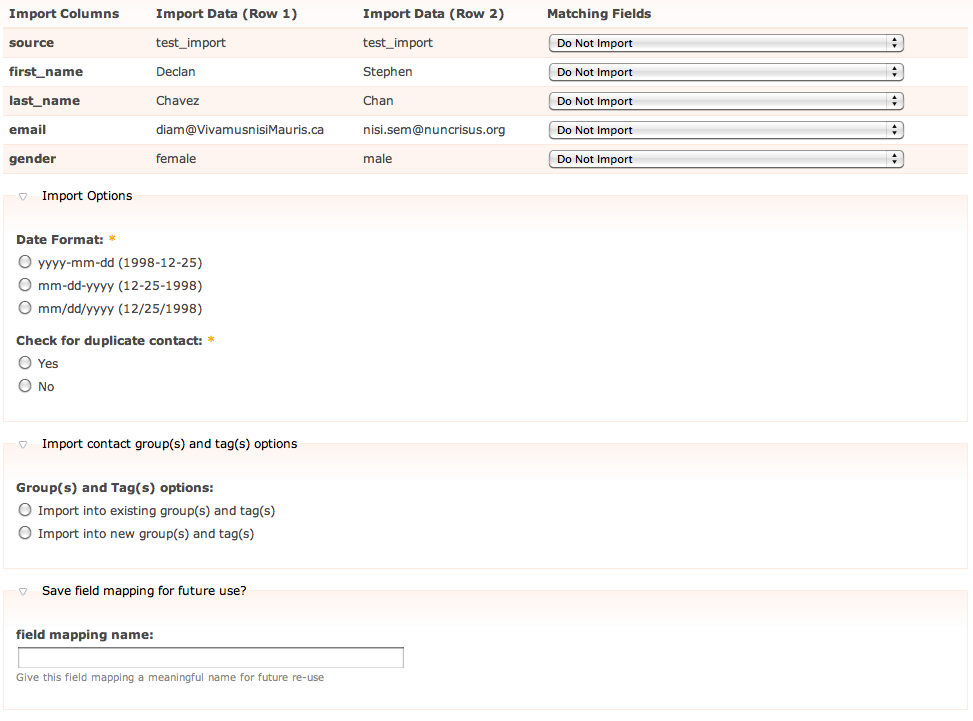
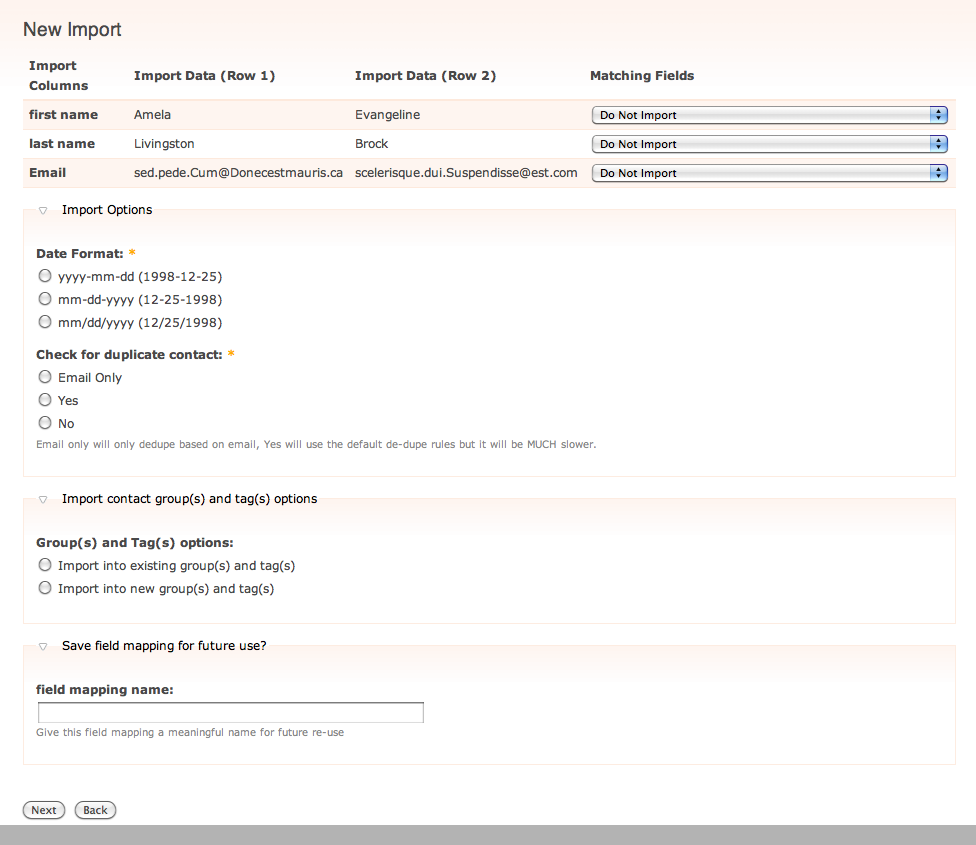
1.1 documentation updates

diff --git a/civicrm-import-docs.tpl.php b/civicrm-import-docs.tpl.php
@@ -163,7 +163,7 @@
 </ul>
 <p>Lastly, if the first row of your import file contains column headers (It is usually the case, check the box that says &quot;First row contains column headers&quot;)</p>
 <p>After you clicked &quot;Next, you should see the following screen&quot;</p>
-<p><img src="<?php print $path; ?>/new_import_2.png" width="647" height="542" alt="New Import, step 2" />]</p>
+<p><img src="<?php print $path; ?>/new_import_2.png" width="647" height="542" alt="New Import, step 2" /></p>
 <p>There are three sections in this import step:</p>
 <ul>
   <li><strong>Import field mapping: </strong>The screen will preview the first two rows of data from your import file and give you a mapping option for each field. Please carefully map each import file column to a CiviCRM contact field. (Note that if your first row contains column headers they will appear as well)<br />
@@ -172,7 +172,13 @@
   </li>
   <li><strong>Import Options: </strong>Various options for the import.
     <ul>
-      <li>Check for duplicate contact: enable this option will check all imported contacts against existing contacts. If an existing contact is found, the duplicated record will not be imported. The module uses the CiviCRM default de-dupe rule. (Check duplicate contact based on email)</li>
+      <li>Check for duplicate contact: 
+        <ul>
+          <li><em>Email Only: </em>If the only duplicate criteria you care about is the email address then the import process will only check duplicate contacts based on email address. This option is faster in a larger database setting.</li>
+          <li><em>Yes:</em>This option will check all imported contacts against existing contacts. If an existing contact is found, the duplicated record will not be imported. The module uses the CiviCRM default de-dupe rule. (Check duplicate contact based on email or first+last name) This option is slower on larger databases</li>
+          <li><em>No: </em>Duplicate contacts will be created.</li>
+        </ul>
+      </li>
       <li>Date Format: The date format in the import file, mainly used in <strong>&quot;Date of Birth&quot; </strong>and other custom date fields.</li>
     </ul>
   </li>
